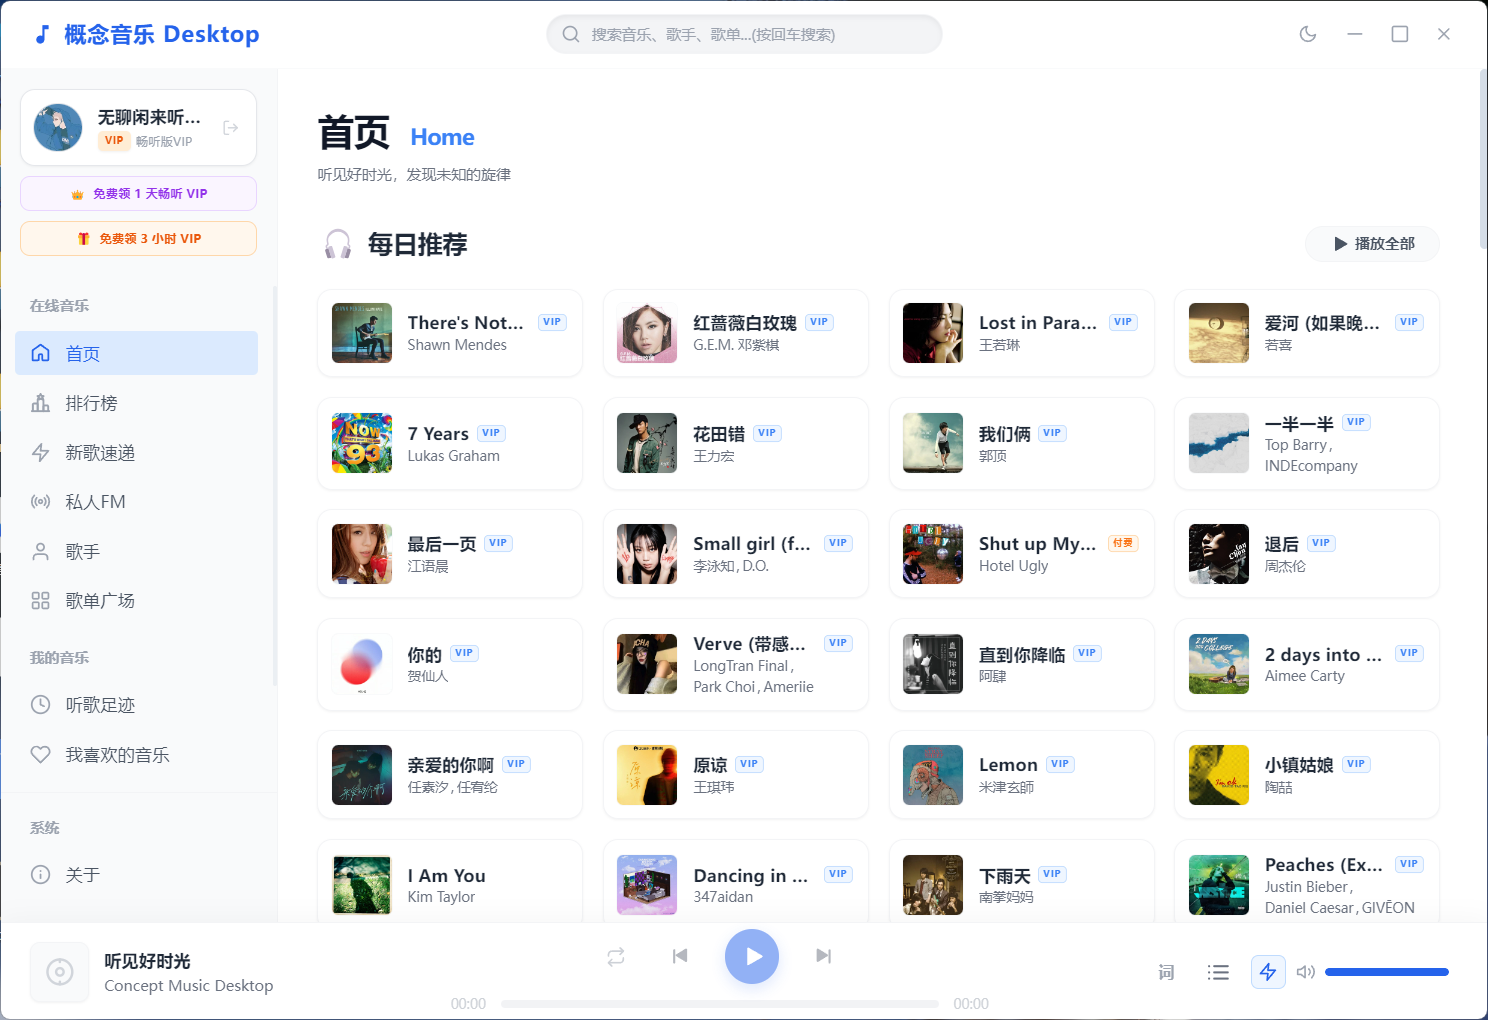
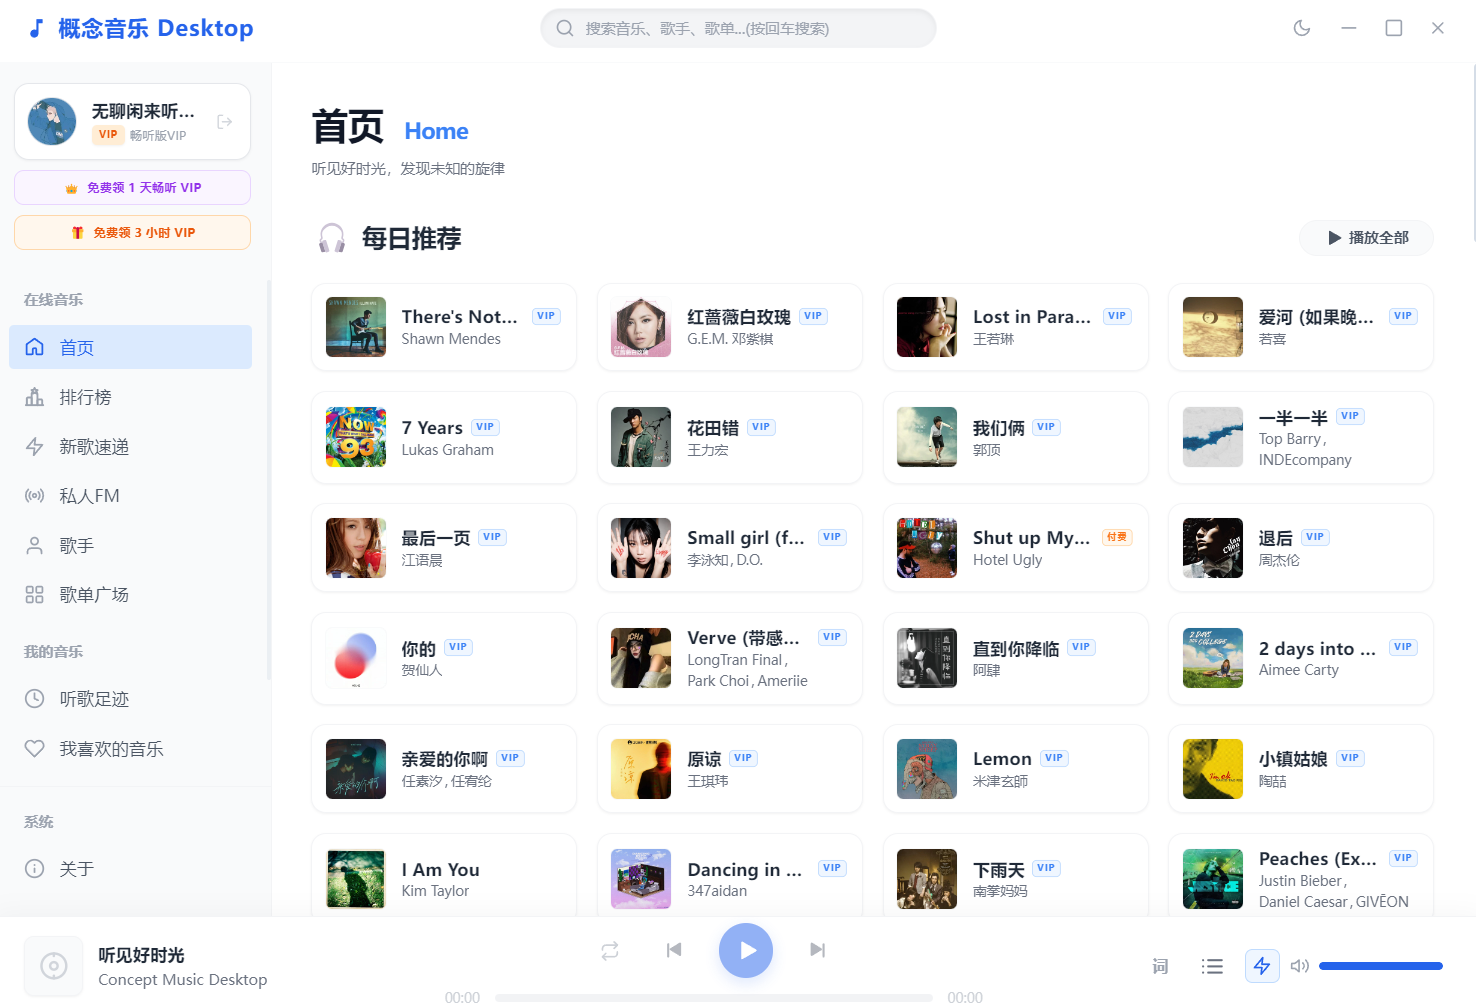
修复下载链接指向BUG

diff --git a/src/components/DownloadCenter.vue b/src/components/DownloadCenter.vue
@@ -8,7 +8,7 @@
           Download & Packages
         </div>
         <h2 class="text-3xl sm:text-5xl font-semibold text-ink-primary tracking-tight leading-[1.15]">
-          即刻开启高保真之旅。
+          即刻开启高保真之旅
         </h2>
         <p class="mt-4 text-base text-ink-secondary">
           最新版本 <span class="font-mono text-ink-primary font-semibold">{{ release.version || 'v3.4.0' }}</span> · 发布于 {{ release.publishedAt || '2025-02-15' }} · 永久免费
@@ -22,7 +22,7 @@
             <Laptop class="w-3.5 h-3.5" />
             <span>Windows 10 / 11 64位</span>
             <span class="text-neutral-500">•</span>
-            <span>大小约 {{ release.size || '85 MB' }}</span>
+            <span>大小约 {{ release.size || '82.8 MB' }}</span>
           </div>
           <h3 class="text-2xl sm:text-3xl font-semibold tracking-tight">
             Windows 官方标准安装版
@@ -65,21 +65,31 @@
               </div>
               <span class="text-xs font-mono font-medium text-ink-tertiary">免安装便携版</span>
             </div>
-            <h4 class="text-lg font-semibold text-ink-primary mb-1.5">绿色解压便携包</h4>
+            <h4 class="text-lg font-semibold text-ink-primary mb-1.5">免安装绿色便携版 (.exe)</h4>
             <p class="text-xs text-ink-secondary leading-relaxed mb-6">
-              解压即用，不写入系统注册表。适合随身 U 盘携带或在无管理员权限电脑上快速运行。
+              单文件便携运行，无需安装，不写入系统注册表。适合随身 U 盘携带或在无管理员权限电脑上快速运行。
             </p>
           </div>
 
           <div class="flex items-center justify-between pt-4 border-t border-apple-border-light">
-            <span class="text-xs text-ink-tertiary font-mono">ZIP Archive</span>
-            <a 
-              :href="release.portableFastUrl || release.portableUrl"
-              class="inline-flex items-center gap-1.5 text-xs font-semibold text-apple-blue hover:text-apple-blue-hover transition-colors"
-            >
-              <span>立即下载</span>
-              <ArrowRight class="w-3.5 h-3.5" />
-            </a>
+            <span class="text-xs text-ink-tertiary font-mono">Portable • 约 {{ release.portableSize || '82.5 MB' }}</span>
+            <div class="flex items-center gap-3">
+              <a 
+                :href="release.portableFastUrl || release.portableUrl"
+                class="inline-flex items-center gap-1.5 text-xs font-semibold text-apple-blue hover:text-apple-blue-hover transition-colors"
+              >
+                <span>极速下载</span>
+                <ArrowRight class="w-3.5 h-3.5" />
+              </a>
+              <a 
+                :href="release.portableUrl"
+                target="_blank"
+                class="text-[11px] text-ink-tertiary hover:text-ink-primary transition-colors"
+                title="GitHub Release 官方源"
+              >
+                官方源
+              </a>
+            </div>
           </div>
         </div>
 

diff --git a/src/services/github.js b/src/services/github.js
@@ -1,4 +1,4 @@
-import { PROJECT_CONFIG } from '../config/project'
+import { PROJECT_CONFIG } from '../config/project.js'
 
 /**
  * 格式化字节大小
@@ -53,17 +53,29 @@ export async function fetchLatestRelease() {
     const publishedAt = formatDate(data.published_at) || fallback.publishedAt
     const body = data.body || '常规体验优化与错误修复'
 
-    // 寻找 .exe 安装包与 .zip 便携包
     const assets = data.assets || []
-    const exeAsset = assets.find(a => a.name.endsWith('.exe'))
-    const zipAsset = assets.find(a => a.name.endsWith('.zip'))
 
-    const installerUrl = exeAsset ? exeAsset.browser_download_url : fallback.installerUrl
-    const installerName = exeAsset ? exeAsset.name : fallback.installerName
-    const size = exeAsset ? formatBytes(exeAsset.size) : fallback.size
+    // 智能精确匹配安装版（优先匹配包含 setup / installer 的 exe，或排除 portable 的 exe）
+    const installerAsset = assets.find(a => 
+      a.name.endsWith('.exe') && /setup|installer/i.test(a.name)
+    ) || assets.find(a => 
+      a.name.endsWith('.exe') && !/portable/i.test(a.name) && !a.name.endsWith('.blockmap')
+    ) || assets.find(a => a.name.endsWith('.exe') && !a.name.endsWith('.blockmap'))
 
-    const portableUrl = zipAsset ? zipAsset.browser_download_url : fallback.portableUrl
-    const portableName = zipAsset ? zipAsset.name : fallback.portableName
+    // 智能精确匹配便携版（优先匹配包含 portable 的 exe/zip/7z，或 zip/7z 压缩包）
+    const portableAsset = assets.find(a => 
+      /portable/i.test(a.name) && !a.name.endsWith('.blockmap')
+    ) || assets.find(a => 
+      (a.name.endsWith('.zip') || a.name.endsWith('.7z')) && !a.name.endsWith('.blockmap')
+    )
+
+    const installerUrl = installerAsset ? installerAsset.browser_download_url : fallback.installerUrl
+    const installerName = installerAsset ? installerAsset.name : fallback.installerName
+    const size = installerAsset ? formatBytes(installerAsset.size) : fallback.size
+
+    const portableUrl = portableAsset ? portableAsset.browser_download_url : fallback.portableUrl
+    const portableName = portableAsset ? portableAsset.name : fallback.portableName
+    const portableSize = portableAsset ? formatBytes(portableAsset.size) : (fallback.portableSize || fallback.size)
 
     return {
       version,
@@ -76,6 +88,7 @@ export async function fetchLatestRelease() {
       portableName,
       portableUrl,
       portableFastUrl: `${PROJECT_CONFIG.cdnMirrors[0].prefix}${portableUrl}`,
+      portableSize,
       allAssets: assets,
       isFallback: false
     }
@@ -97,6 +110,7 @@ function buildReleaseData(fallback, isFallback = true) {
     portableName: fallback.portableName,
     portableUrl: fallback.portableUrl,
     portableFastUrl: `${PROJECT_CONFIG.cdnMirrors[0].prefix}${fallback.portableUrl}`,
+    portableSize: fallback.portableSize || fallback.size,
     allAssets: [],
     isFallback
   }

diff --git a/src/components/Hero.vue b/src/components/Hero.vue
@@ -10,8 +10,8 @@
 
       <!-- Main Headline with Generous Spacing -->
       <h1 class="text-4xl sm:text-6xl md:text-7xl font-semibold text-ink-primary tracking-tight leading-[1.1] mb-6">
-        只留下音乐，<br class="hidden sm:inline" />
-        其余归于纯净。
+        只留下音乐<br class="hidden sm:inline" />
+        其余归于纯净
       </h1>
 
       <!-- Slogan Description -->
@@ -33,11 +33,11 @@
 
         <!-- Portable & More Options Link -->
         <a 
-          href="#download"
-          class="w-full sm:w-auto inline-flex items-center justify-center gap-2 px-6 py-3.5 rounded-full text-sm font-medium text-ink-primary bg-surface hover:bg-subtle border border-apple-border active:scale-[0.98] transition-all shadow-apple-subtle"
+          :href="release.portableFastUrl || release.portableUrl"
+          class="w-full sm:w-auto inline-flex items-center justify-center gap-2 px-6 py-3.5 rounded-full text-sm font-medium text-ink-primary bg-surface hover:bg-subtle border border-apple-border active:scale-[0.98] transition-all shadow-apple-subtle group"
         >
-          <FolderArchive class="w-4 h-4 text-ink-secondary" />
-          <span>免安装绿色版 (.zip)</span>
+          <FolderArchive class="w-4 h-4 text-ink-secondary group-hover:text-ink-primary transition-colors" />
+          <span>免安装绿色便携版 (.exe)</span>
         </a>
       </div>
 
@@ -49,7 +49,7 @@
         <span>•</span>
         <span>0 商业广告与弹窗</span>
         <span>•</span>
-        <span>安装包约 {{ release.size || '85 MB' }}</span>
+        <span>安装包约 {{ release.size || '82.8 MB' }}</span>
       </div>
 
       <!-- Real Client Suspended App Mockup (Border-free Soft Floating Shadow) -->

diff --git a/src/config/project.js b/src/config/project.js
@@ -20,9 +20,10 @@ export const PROJECT_CONFIG = {
     publishedAt: '2025-02-15',
     installerName: 'concept-music-Setup-3.4.0.exe',
     installerUrl: 'https://github.com/liovoz/concept-music/releases/download/v3.4.0/concept-music-Setup-3.4.0.exe',
-    portableName: 'concept-music-3.4.0-win-x64.zip',
-    portableUrl: 'https://github.com/liovoz/concept-music/releases/download/v3.4.0/concept-music-3.4.0-win-x64.zip',
-    size: '85 MB',
+    portableName: 'concept-music-3.4.0-Portable.exe',
+    portableUrl: 'https://github.com/liovoz/concept-music/releases/download/v3.4.0/concept-music-3.4.0-Portable.exe',
+    size: '82.8 MB',
+    portableSize: '82.5 MB',
   },
 
   // 国内网盘直链配置

diff --git a/src/components/Screenshots.vue b/src/components/Screenshots.vue
@@ -8,7 +8,7 @@
           Product Showcase
         </div>
         <h2 class="text-3xl sm:text-5xl font-semibold text-ink-primary tracking-tight leading-[1.15]">
-          精致，见于毫厘。
+          精致，见于毫厘
         </h2>
         <p class="mt-4 text-base text-ink-secondary">
           基于 Electron 与 Vue 3 打造的 Windows 原生高颜值客户端，每一处交互皆纯净自然。

diff --git a/src/App.vue b/src/App.vue
@@ -39,6 +39,7 @@ const releaseInfo = ref({
   portableName: PROJECT_CONFIG.fallbackRelease.portableName,
   portableUrl: PROJECT_CONFIG.fallbackRelease.portableUrl,
   portableFastUrl: `${PROJECT_CONFIG.cdnMirrors[0].prefix}${PROJECT_CONFIG.fallbackRelease.portableUrl}`,
+  portableSize: PROJECT_CONFIG.fallbackRelease.portableSize || '82.5 MB',
 })
 
 onMounted(async () => {

diff --git a/src/components/Faq.vue b/src/components/Faq.vue
@@ -8,7 +8,7 @@
           Questions & Answers
         </div>
         <h2 class="text-3xl sm:text-5xl font-semibold text-ink-primary tracking-tight leading-[1.15]">
-          常见答疑。
+          常见答疑
         </h2>
         <p class="mt-4 text-base text-ink-secondary">
           关于音质机制、软件安全性与更新维护的透明解答。

diff --git a/README.md b/README.md
@@ -36,7 +36,7 @@
   - **无需手动修改官网代码即可完成版本全自动同步更新**。
 - 🚀 **高速分发下载矩阵**：
   - **Windows 官方标准安装版 (`.exe`)**：支持国内极速 CDN 满速镜像下载与 GitHub 官方源直连。
-  - **绿色免安装便携版 (`.zip`)**：解压即用、无痕随身。
+  - **绿色免安装便携版 (`.exe`)**：单文件免安装、无痕随身。
   - **国内网盘备用通道**：集成夸克网盘高速下载，保障多环境全天候可用。
 - 💡 **轻量零运维架构**：
   - 纯静态单页架构，免后端服务器运维，首屏加载毫秒级响应。
